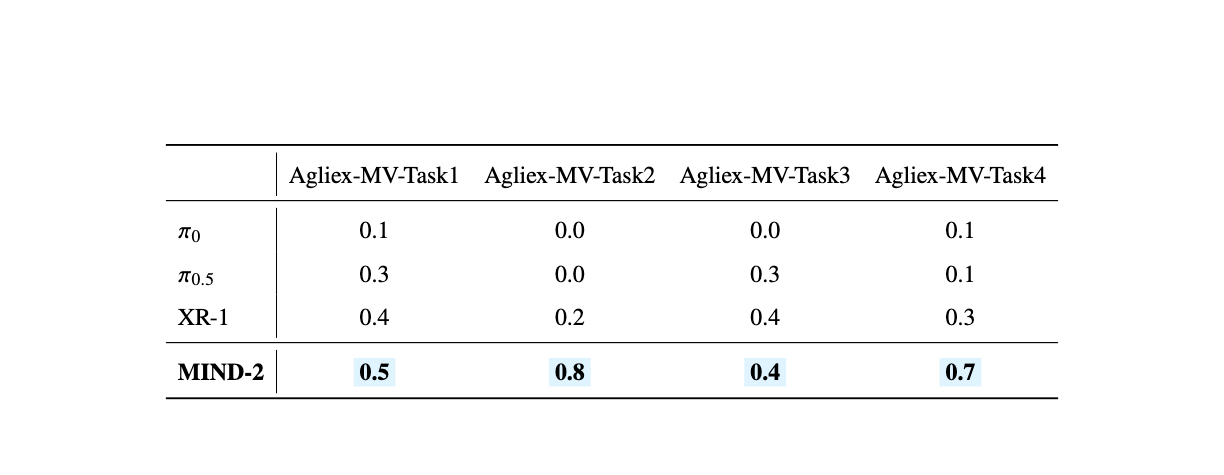
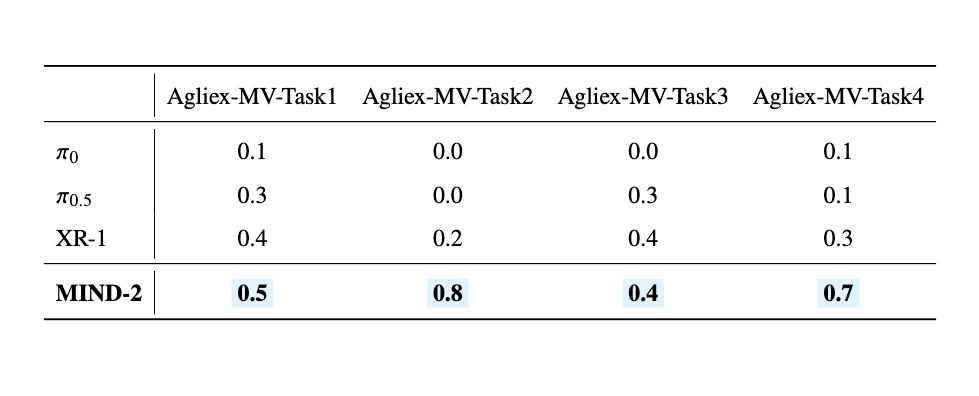
add dataset overview

diff --git a/index.html b/index.html
@@ -6,6 +6,41 @@
   <link rel="icon" href="./figs/logo.png" type="image/png">
   <!-- <meta name="viewport" content="width=device-width, initial-scale=1.0"> -->
   <link rel="stylesheet" href="style.css">
+  <style>
+    /* GIF 阵列样式 */
+    .gif-gallery-section {
+      margin: 10px 0;
+    }
+    .gif-task-row {
+      display: flex;
+      flex-wrap: wrap;
+      gap: 0.5px;
+      margin-bottom: 0.5px;
+    }
+    .gif-task-item {
+      flex: 0 0 calc(16.666% - 4px); /* 固定宽度（6列），精准减去gap值，确保填满整行 */
+      box-sizing: border-box;
+      padding: 0; /* 清除内边距 */
+      margin: 0; /* 清除外边距 */
+    }
+    .gif-task-item img {
+      width: 100%;
+      height: auto;
+      border-radius: 4px;
+      border: 1px solid #eee;
+    }
+    /* 响应式适配 */
+    @media (max-width: 1200px) {
+      .gif-task-item {
+        min-width: calc(33.333% - 10px); /* 屏幕变小时每行3个 */
+      }
+    }
+    @media (max-width: 768px) {
+      .gif-task-item {
+        min-width: calc(50% - 10px); /* 手机端每行2个 */
+      }
+    }
+  </style>
 </head>
 
 <body>
@@ -61,6 +96,188 @@ Manipulation Dataset for Generalizable Embodied Intelligence</div>
       <a href="https://arxiv.org/abs/2512.24653" target="_blank">[<strong>arxiv</strong>]</a>
       <a href="https://modelscope.cn/datasets/X-Humanoid/RoboMIND2.0/" target="_blank">[<strong>code</strong>]</a>
     </div>
+
+    <!-- ===================== 新增的GIF阵列区域 ===================== -->
+    <div class="gif-gallery-section">
+      <h2 style="font-size: 24px; text-align: center; margin: 30px 0;">Dataset Overview</h2>
+      
+      <!-- Franka 机器人 -->
+      <div class="gif-task-row">
+        <div class="gif-task-item">
+          <img src="./gifs/franka/task1/camera_front.gif" alt="Franka Task 1">
+        </div>
+        <div class="gif-task-item">
+          <img src="./gifs/franka/task2/camera_front.gif" alt="Franka Task 2">
+        </div>
+        <div class="gif-task-item">
+          <img src="./gifs/franka/task3/camera_front.gif" alt="Franka Task 3">
+        </div>
+        <div class="gif-task-item">
+          <img src="./gifs/franka/task4/camera_front.gif" alt="Franka Task 4">
+        </div>
+        <div class="gif-task-item">
+          <img src="./gifs/franka/task5/camera_front.gif" alt="Franka Task 5">
+        </div>
+        <div class="gif-task-item">
+          <img src="./gifs/franka/task6/camera_front.gif" alt="Franka Task 6">
+        </div>
+      </div>
+
+      <!-- UR 机器人 -->
+      <div class="gif-task-row">
+        <div class="gif-task-item">
+          <img src="./gifs/ur/task1/camera_front.gif" alt="UR Task 1">
+        </div>
+        <div class="gif-task-item">
+          <img src="./gifs/ur/task2/camera_front.gif" alt="UR Task 2">
+        </div>
+        <div class="gif-task-item">
+          <img src="./gifs/ur/task3/camera_front.gif" alt="UR Task 3">
+        </div>
+        <div class="gif-task-item">
+          <img src="./gifs/ur/task4/camera_front.gif" alt="UR Task 4">
+        </div>
+        <div class="gif-task-item">
+          <img src="./gifs/ur/task5/camera_front.gif" alt="UR Task 5">
+        </div>
+        <div class="gif-task-item">
+          <img src="./gifs/ur/task6/camera_front.gif" alt="UR Task 6">
+        </div>
+      </div>
+
+      <!-- AGX 机器人 -->
+      <div class="gif-task-row">
+        <div class="gif-task-item">
+          <img src="./gifs/agx/task1/camera_front.gif" alt="AGX Task 1">
+        </div>
+        <div class="gif-task-item">
+          <img src="./gifs/agx/task2/camera_front.gif" alt="AGX Task 2">
+        </div>
+        <div class="gif-task-item">
+          <img src="./gifs/agx/task3/camera_front.gif" alt="AGX Task 3">
+        </div>
+        <div class="gif-task-item">
+          <img src="./gifs/agx/task4/camera_front.gif" alt="AGX Task 4">
+        </div>
+        <div class="gif-task-item">
+          <img src="./gifs/agx/task5/camera_front.gif" alt="AGX Task 5">
+        </div>
+        <div class="gif-task-item">
+          <img src="./gifs/agx/task6/camera_front.gif" alt="AGX Task 6">
+        </div>
+      </div>
+
+      <!-- Agilex Mobile 机器人 -->
+      <div class="gif-task-row">
+        <div class="gif-task-item">
+          <img src="./gifs/agilex_mobile/task1/camera_front.gif" alt="Agilex Mobile Task 1">
+        </div>
+        <div class="gif-task-item">
+          <img src="./gifs/agilex_mobile/task2/camera_front.gif" alt="Agilex Mobile Task 2">
+        </div>
+        <div class="gif-task-item">
+          <img src="./gifs/agilex_mobile/task3/camera_front.gif" alt="Agilex Mobile Task 3">
+        </div>
+        <div class="gif-task-item">
+          <img src="./gifs/agilex_mobile/task4/camera_front.gif" alt="Agilex Mobile Task 4">
+        </div>
+        <div class="gif-task-item">
+          <img src="./gifs/agilex_mobile/task5/camera_front.gif" alt="Agilex Mobile Task 5">
+        </div>
+        <div class="gif-task-item">
+          <img src="./gifs/agilex_mobile/task6/camera_front.gif" alt="Agilex Mobile Task 6">
+        </div>
+      </div>
+
+      <!-- ARK 机器人 -->
+      <div class="gif-task-row">
+        <div class="gif-task-item">
+          <img src="./gifs/ark/task1/camera_front.gif" alt="ARK Task 1">
+        </div>
+        <div class="gif-task-item">
+          <img src="./gifs/ark/task2/camera_front.gif" alt="ARK Task 2">
+        </div>
+        <div class="gif-task-item">
+          <img src="./gifs/ark/task3/camera_front.gif" alt="ARK Task 3">
+        </div>
+        <div class="gif-task-item">
+          <img src="./gifs/ark/task4/camera_front.gif" alt="ARK Task 4">
+        </div>
+        <div class="gif-task-item">
+          <img src="./gifs/ark/task5/camera_front.gif" alt="ARK Task 5">
+        </div>
+        <div class="gif-task-item">
+          <img src="./gifs/ark/task6/camera_front.gif" alt="ARK Task 6">
+        </div>
+      </div>
+
+      <!-- ARK Mobile 机器人 -->
+      <div class="gif-task-row">
+        <div class="gif-task-item">
+          <img src="./gifs/ark_mobile/task1/camera_front.gif" alt="ARK Mobile Task 1">
+        </div>
+        <div class="gif-task-item">
+          <img src="./gifs/ark_mobile/task2/camera_front.gif" alt="ARK Mobile Task 2">
+        </div>
+        <div class="gif-task-item">
+          <img src="./gifs/ark_mobile/task3/camera_front.gif" alt="ARK Mobile Task 3">
+        </div>
+        <div class="gif-task-item">
+          <img src="./gifs/ark_mobile/task4/camera_front.gif" alt="ARK Mobile Task 4">
+        </div>
+        <div class="gif-task-item">
+          <img src="./gifs/ark_mobile/task5/camera_front.gif" alt="ARK Mobile Task 5">
+        </div>
+        <div class="gif-task-item">
+          <img src="./gifs/ark_mobile/task6/camera_front.gif" alt="ARK Mobile Task 6">
+        </div>
+      </div>
+
+      <!-- Tienkung 机器人 -->
+      <div class="gif-task-row">
+        <div class="gif-task-item">
+          <img src="./gifs/tienkung/task1/camera_front.gif" alt="Tienkung Task 1">
+        </div>
+        <div class="gif-task-item">
+          <img src="./gifs/tienkung/task2/camera_front.gif" alt="Tienkung Task 2">
+        </div>
+        <div class="gif-task-item">
+          <img src="./gifs/tienkung/task3/camera_front.gif" alt="Tienkung Task 3">
+        </div>
+        <div class="gif-task-item">
+          <img src="./gifs/tienkung/task4/camera_front.gif" alt="Tienkung Task 4">
+        </div>
+        <div class="gif-task-item">
+          <img src="./gifs/tienkung/task5/camera_front.gif" alt="Tienkung Task 5">
+        </div>
+        <div class="gif-task-item">
+          <img src="./gifs/tienkung/task6/camera_front.gif" alt="Tienkung Task 6">
+        </div>
+      </div>
+
+      <!-- Tianyi 机器人 -->
+      <div class="gif-task-row">
+        <div class="gif-task-item">
+          <img src="./gifs/tianyi/task1/camera_front.gif" alt="Tianyi Task 1">
+        </div>
+        <div class="gif-task-item">
+          <img src="./gifs/tianyi/task2/camera_front.gif" alt="Tianyi Task 2">
+        </div>
+        <div class="gif-task-item">
+          <img src="./gifs/tianyi/task3/camera_front.gif" alt="Tianyi Task 3">
+        </div>
+        <div class="gif-task-item">
+          <img src="./gifs/tianyi/task4/camera_front.gif" alt="Tianyi Task 4">
+        </div>
+        <div class="gif-task-item">
+          <img src="./gifs/tianyi/task5/camera_front.gif" alt="Tianyi Task 5">
+        </div>
+        <div class="gif-task-item">
+          <img src="./gifs/tianyi/task6/camera_front.gif" alt="Tianyi Task 6">
+        </div>
+      </div>
+    </div>
+    <!-- ===================== GIF阵列区域结束 ===================== -->
 
     <div class="tagline" id="abstract">Abstract.</div>
     <div class="section">

diff --git a/resize_gif.py b/resize_gif.py
@@ -1,0 +1,83 @@
+import os
+from PIL import Image, ImageSequence
+
+# 1. 配置参数（你可以根据需要修改）
+ROOT_DIR = "/Users/log2r/Documents/Projects/RoboMIND2.0/gifs/"
+# 目标尺寸（宽, 高），你可以根据实际需求调整
+TARGET_SIZE = (640, 480)
+# 是否覆盖原文件（False 则保存到新目录，避免原文件丢失）
+OVERWRITE = False
+# 新文件保存的根目录（仅当 OVERWRITE=False 时生效）
+OUTPUT_ROOT = "/Users/log2r/Documents/Projects/RoboMIND2.0/gifs_resized/"
+
+def resize_gif(gif_path, output_path, target_size):
+    """
+    调整 GIF 尺寸并保存，保留动画效果
+    :param gif_path: 原 GIF 文件路径
+    :param output_path: 调整后保存的路径
+    :param target_size: 目标尺寸 (width, height)
+    """
+    try:
+        # 打开原 GIF
+        with Image.open(gif_path) as img:
+            # 存储每一帧的图像和相关信息
+            frames = []
+            durations = []  # 存储每一帧的延迟时间（控制动画速度）
+            
+            # 遍历 GIF 的每一帧
+            for frame in ImageSequence.Iterator(img):
+                # 转换为 RGBA 避免透明通道丢失
+                frame_rgba = frame.convert("RGBA")
+                # 调整帧的尺寸（使用 LANCZOS 插值，画质更好）
+                resized_frame = frame_rgba.resize(target_size, Image.Resampling.LANCZOS)
+                frames.append(resized_frame)
+                # 记录帧的延迟时间
+                durations.append(img.info.get("duration", 100))
+            
+            # 创建输出目录（如果不存在）
+            os.makedirs(os.path.dirname(output_path), exist_ok=True)
+            
+            # 保存调整后的 GIF
+            frames[0].save(
+                output_path,
+                save_all=True,
+                append_images=frames[1:],
+                duration=durations,
+                loop=0,  # 0 表示无限循环
+                disposal=2,  # 保留透明背景
+                optimize=True
+            )
+        print(f"成功处理: {gif_path} -> {output_path}")
+    except Exception as e:
+        print(f"处理失败 {gif_path}: {str(e)}")
+
+def main():
+    # 遍历根目录下的所有文件夹
+    for root_folder in os.listdir(ROOT_DIR):
+        root_folder_path = os.path.join(ROOT_DIR, root_folder)
+        # 只处理文件夹（跳过文件）
+        if not os.path.isdir(root_folder_path):
+            continue
+        
+        # 遍历 task1 到 task6
+        for task_num in range(1, 7):
+            task_folder = f"task{task_num}"
+            task_folder_path = os.path.join(root_folder_path, task_folder)
+            gif_file_path = os.path.join(task_folder_path, "camera_front.gif")
+            
+            # 检查 GIF 文件是否存在
+            if os.path.exists(gif_file_path):
+                # 确定输出路径
+                if OVERWRITE:
+                    output_path = gif_file_path
+                else:
+                    # 保持原目录结构，保存到新根目录
+                    output_path = gif_file_path.replace(ROOT_DIR, OUTPUT_ROOT)
+                
+                # 调整 GIF 尺寸并保存
+                resize_gif(gif_file_path, output_path, TARGET_SIZE)
+            else:
+                print(f"文件不存在: {gif_file_path}")
+
+if __name__ == "__main__":
+    main()

diff --git a/crop.py b/crop.py
@@ -1,13 +1,16 @@
 from PIL import Image
 
 # 读取图片
-img = Image.open("/Users/log2r/Documents/Projects/RoboMIND2.0/figs/table2_.png")
+img = Image.open("/Users/log2r/Documents/Projects/RoboMIND2.0/figs/table1_.png")
 
 w, h = img.size
 
-# 计算裁剪区域：保留上方 40%
-crop_height = int(h * 0.3)
-cropped = img.crop((0, 0, w, crop_height))
+crop_left = w * 0.2  # 左边裁剪20%
+crop_right = w * 0.8  # 右边保留到80%位置（即裁掉右侧20%）
+crop_top = h * 0  # 顶部裁剪20%
+crop_bottom = h  # 底部不裁剪
 
+crop_box = (int(crop_left), int(crop_top), int(crop_right), int(crop_bottom))
+cropped_img = img.crop(crop_box)
 # 保存结果
-cropped.save("/Users/log2r/Documents/Projects/RoboMIND2.0/figs/table2.png")
+cropped_img.save("/Users/log2r/Documents/Projects/RoboMIND2.0/figs/table1.png")
